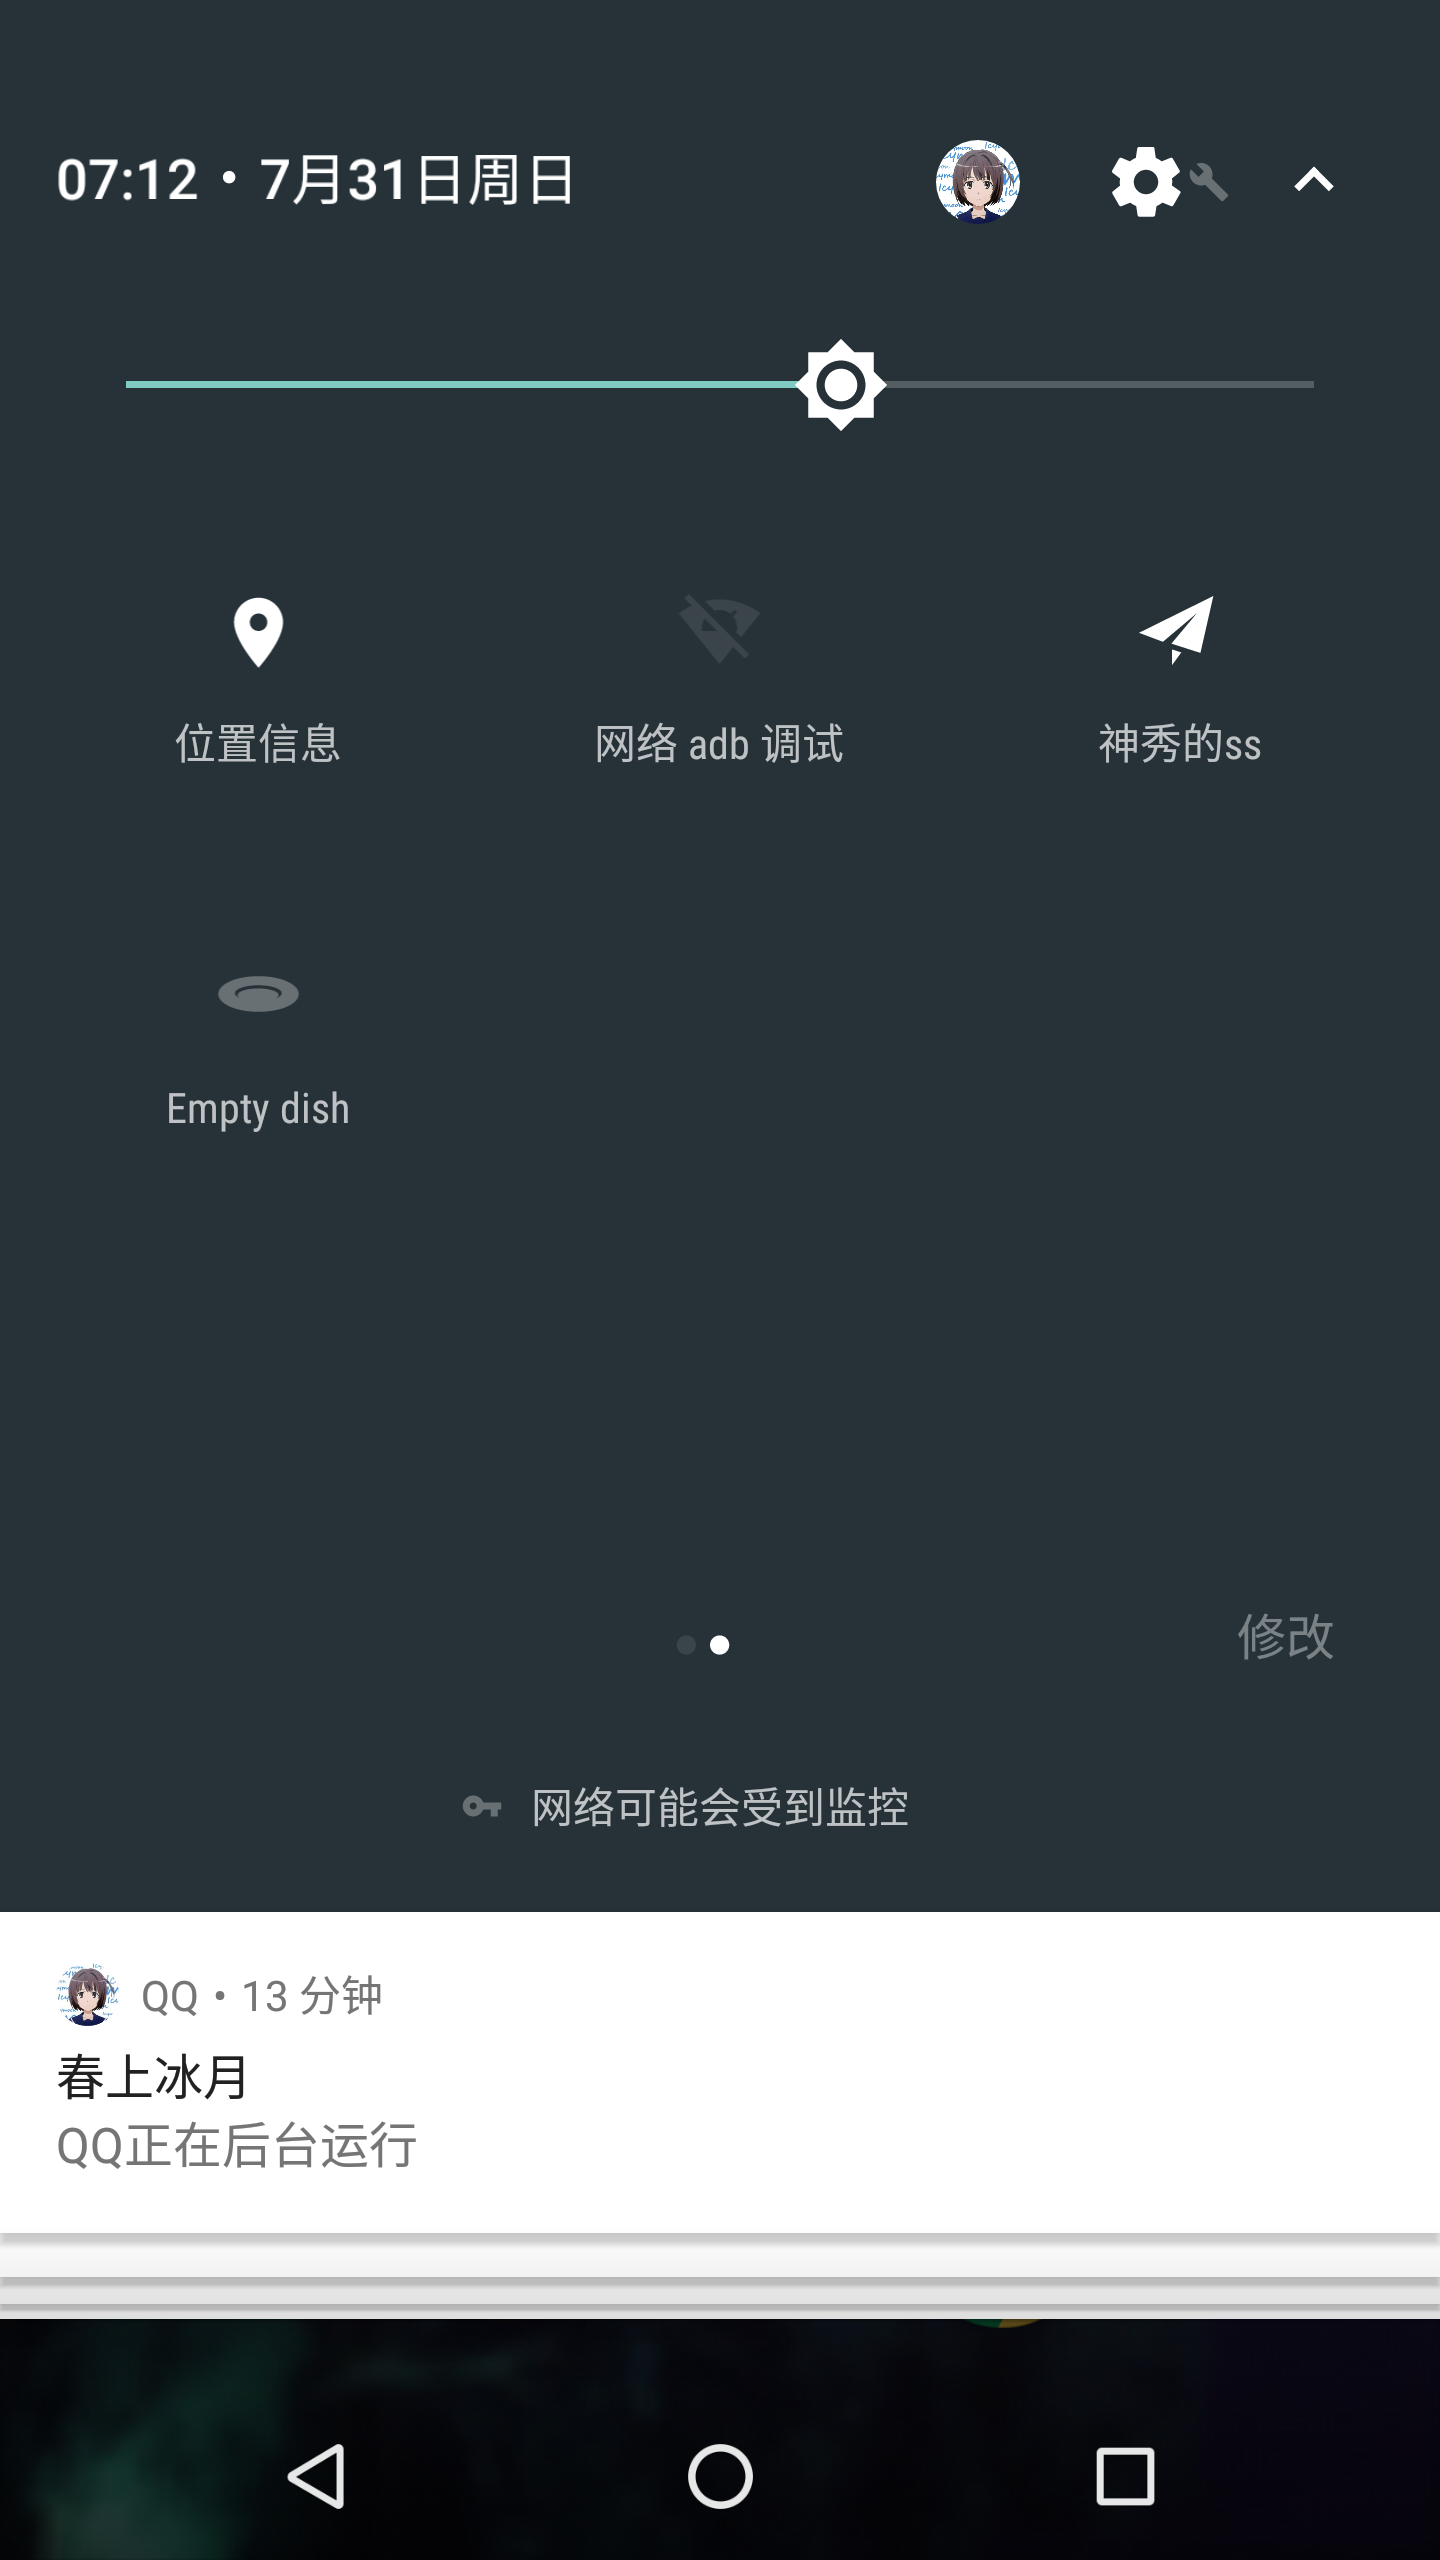
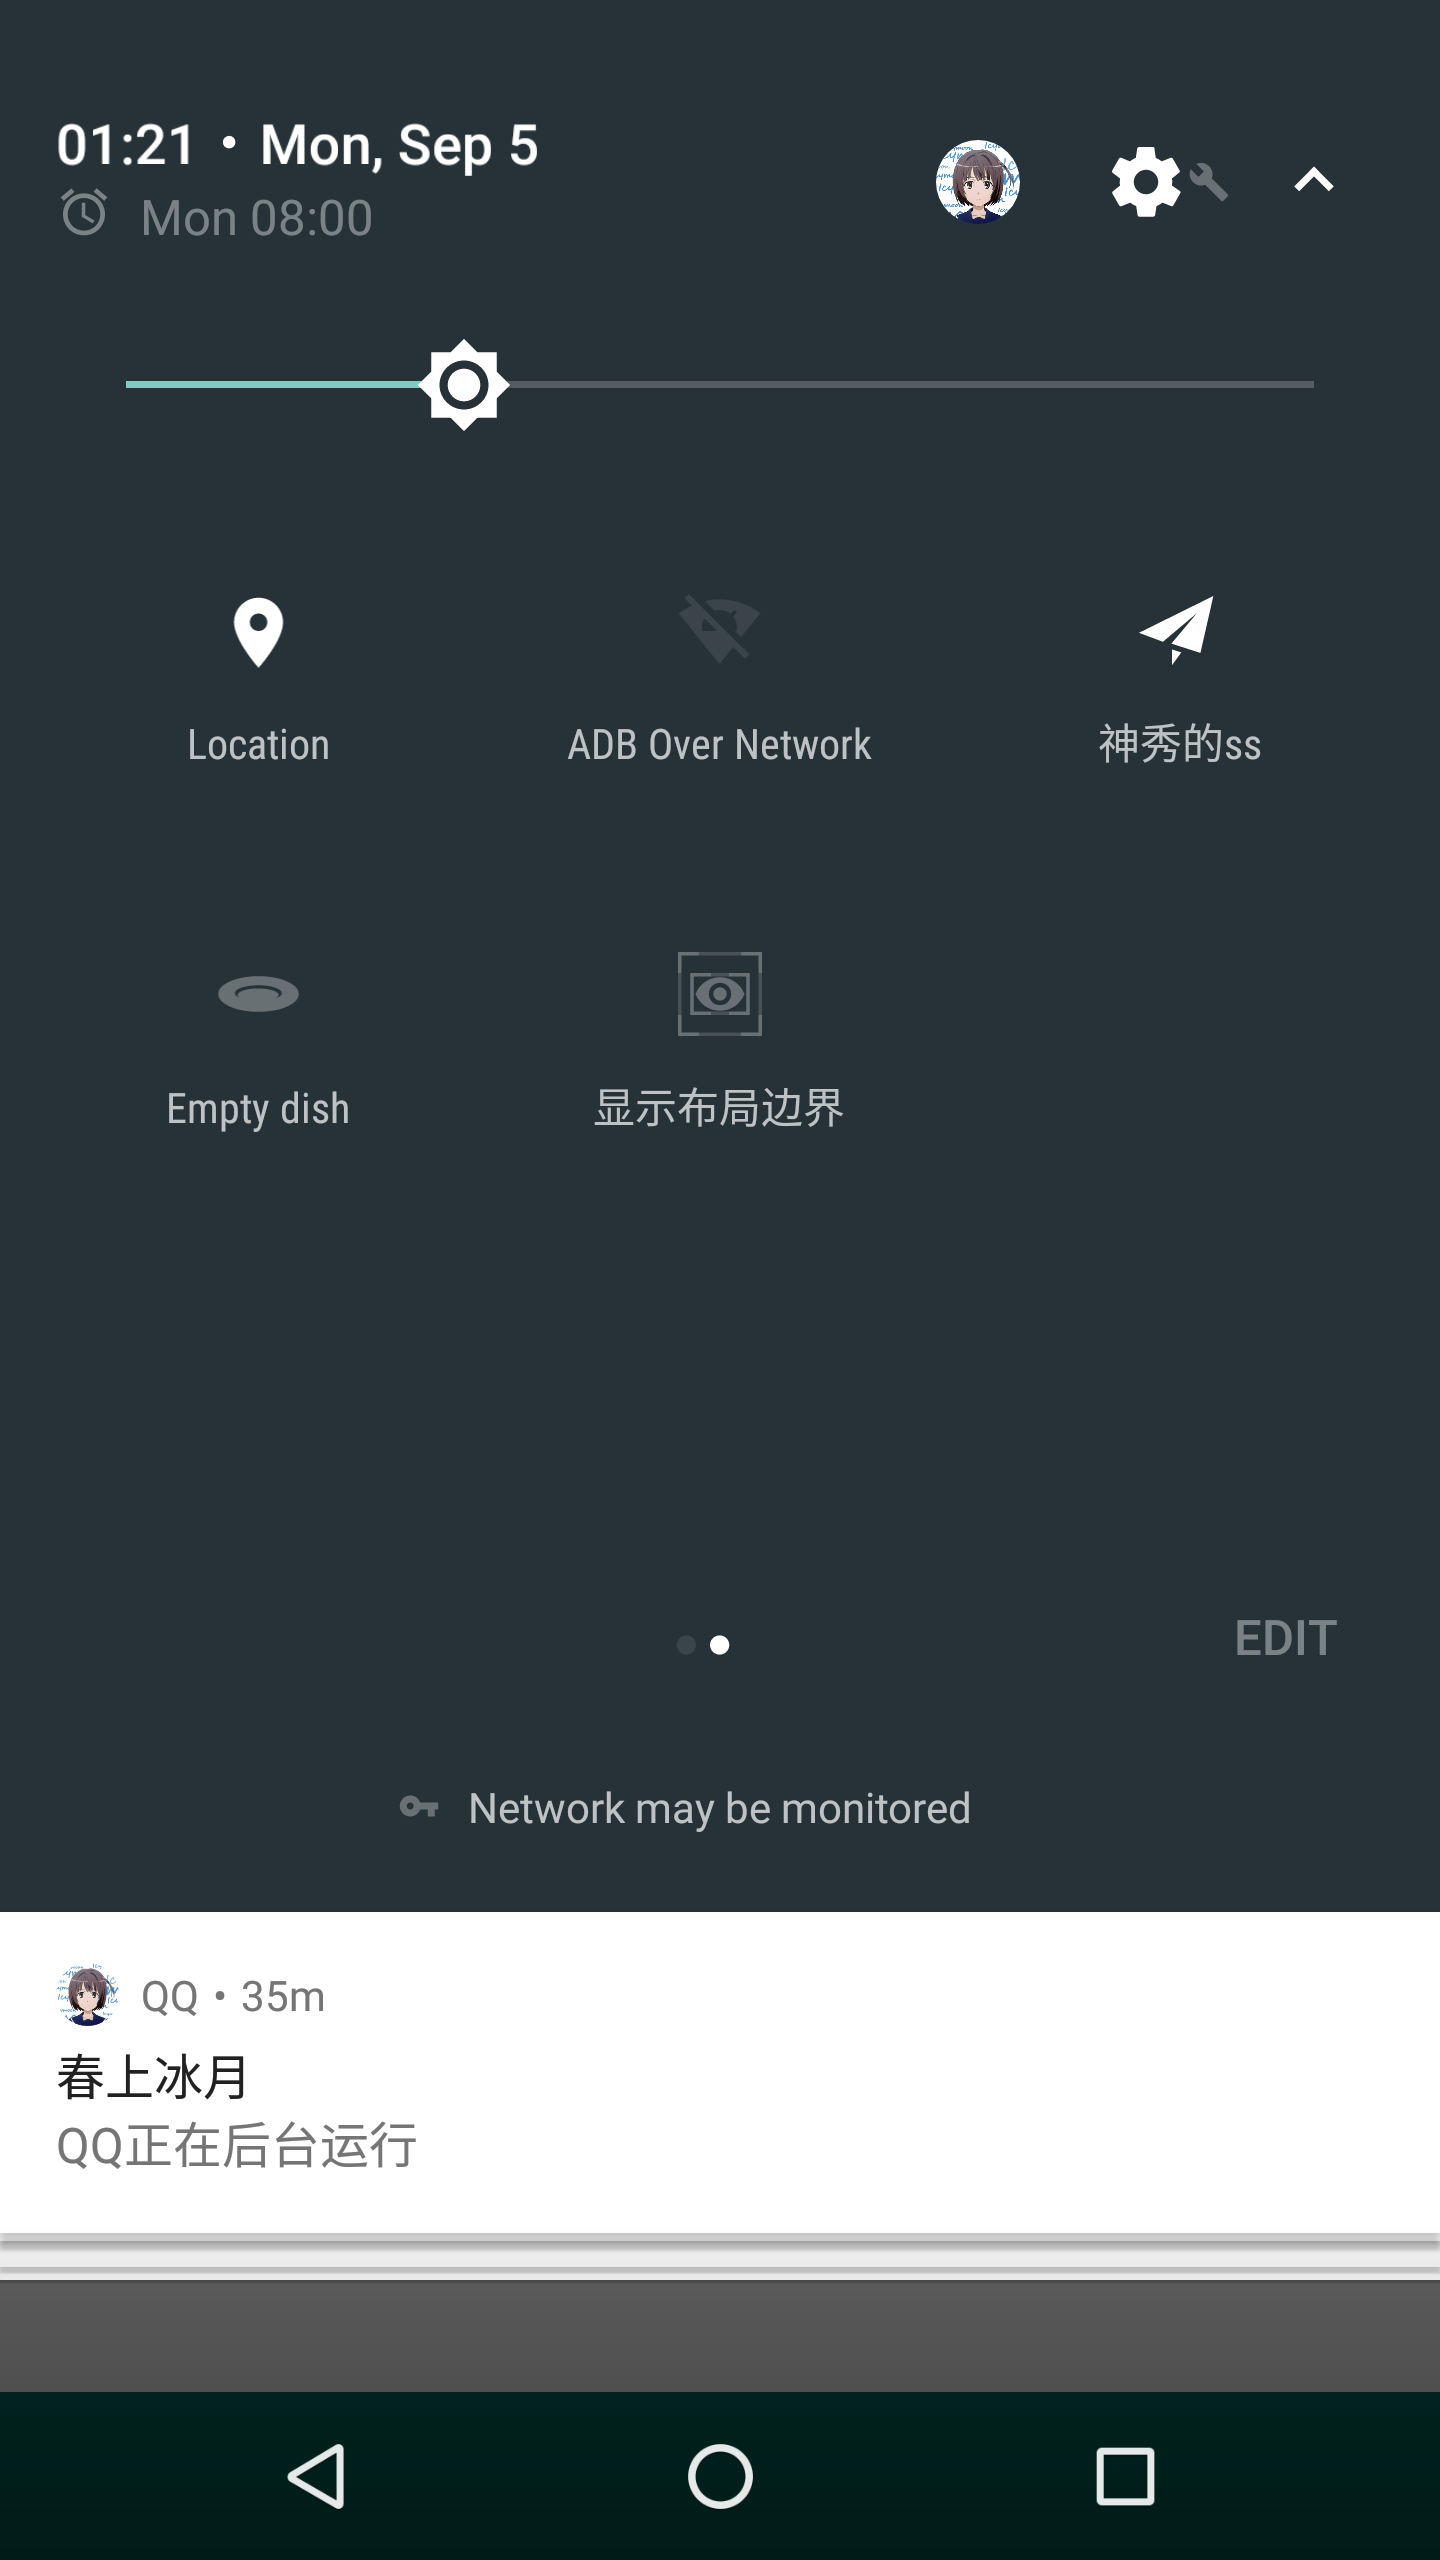
English README

diff --git a/README.md b/README.md
@@ -1,32 +1,35 @@
-# WADB - 网络 adb 调试开关
+# WADB - a simple switch for ADB over network
+[简体中文](README-zh_rCN.md) | [English](README.md)
 
-## 功能
-纯粹的对两条命令的封装，开启和关闭网络 adb 调试（修改端口），**需要 root 权限**
+## Function
+switch the state of ADB over network by the following command，**Need root !!!**
 ```shell
-// 开启
+// Start ADB over network
 setprop service.adb.tcp.port 5555
 stop adbd
 start adbd
 
-// 关闭
+// Stop ADB over network
 setprop service.adb.tcp.port -1
 stop adbd
 start adbd
 
 ```
 
-主要还是想试一下 Android N 上新加的 [Tile API](https://developer.android.com/preview/api-overview.html#tile_api) ，所以这些效果需要 Android N 才能看到。
+Support the new [Tile API](https://developer.android.com/preview/api-overview.html#tile_api) which add in Android N, so you need a Android N device to use the tile. But other functions also work well in Android 4.0.
+
+## Screenshot
 
 <img src="readme.res/01.png" width="30%" heigth="30%">
 <img src="readme.res/02.png" width="30%" heigth="30%">
 <img src="readme.res/03.png" width="30%" heigth="30%">
 <img src="readme.res/04.png" width="30%" heigth="30%">
 
-## 下载
-在 Play 商店支持我们：    
-<a href='https://play.google.com/store/apps/details?id=moe.haruue.wadb&utm_source=global_co&utm_medium=prtnr&utm_content=Mar2515&utm_campaign=PartBadge&pcampaignid=MKT-Other-global-all-co-prtnr-py-PartBadge-Mar2515-1'><img alt='即刻获取 Google Play' src='https://play.google.com/intl/en_us/badges/images/generic/zh-cn_badge_web_generic.png' width="250"/></a>
+## Download
+Support us in Play Store：    
+<a href='https://play.google.com/store/apps/details?id=moe.haruue.wadb&utm_source=global_co&utm_medium=prtnr&utm_content=Mar2515&utm_campaign=PartBadge&pcampaignid=MKT-Other-global-all-co-prtnr-py-PartBadge-Mar2515-1'><img alt='Get it on Google Play' src='https://play.google.com/intl/en_us/badges/images/generic/en_badge_web_generic.png' width="250"/></a>
 
-或者 [戳这里直接下载 APK](app/app-release.apk?raw=true)    
+... or directly download the APK file by click [here](app/app-release.apk?raw=true).    
 
 ## License
 Apache License 2.0

diff --git a/README-zh_rCN.md b/README-zh_rCN.md
@@ -1,0 +1,50 @@
+# WADB - 网络 adb 调试开关
+[简体中文](README-zh_rCN.md) | [English](README.md)
+
+## 功能
+纯粹的对两条命令的封装，开启和关闭网络 adb 调试（修改端口），**需要 root 权限**
+```shell
+// 开启
+setprop service.adb.tcp.port 5555
+stop adbd
+start adbd
+
+// 关闭
+setprop service.adb.tcp.port -1
+stop adbd
+start adbd
+
+```
+
+主要还是想试一下 Android N 上新加的 [Tile API](https://developer.android.com/preview/api-overview.html#tile_api) ，所以这些效果需要 Android N 才能看到。
+
+<img src="readme.res/zh_rCN/01.png" width="30%" heigth="30%">
+<img src="readme.res/zh_rCN/02.png" width="30%" heigth="30%">
+<img src="readme.res/zh_rCN/03.png" width="30%" heigth="30%">
+<img src="readme.res/zh_rCN/04.png" width="30%" heigth="30%">
+
+## 下载
+在 Play 商店支持我们：    
+<a href='https://play.google.com/store/apps/details?id=moe.haruue.wadb&utm_source=global_co&utm_medium=prtnr&utm_content=Mar2515&utm_campaign=PartBadge&pcampaignid=MKT-Other-global-all-co-prtnr-py-PartBadge-Mar2515-1'><img alt='即刻获取 Google Play' src='https://play.google.com/intl/en_us/badges/images/generic/zh-cn_badge_web_generic.png' width="250"/></a>
+
+或者 [戳这里直接下载 APK](app/app-release.apk?raw=true)    
+
+## License
+Apache License 2.0
+
+```License
+Copyright 2016 Haruue Icymoon
+
+Licensed under the Apache License, Version 2.0 (the "License");
+you may not use this file except in compliance with the License.
+You may obtain a copy of the License at
+
+    http://www.apache.org/licenses/LICENSE-2.0
+
+Unless required by applicable law or agreed to in writing, software
+distributed under the License is distributed on an "AS IS" BASIS,
+WITHOUT WARRANTIES OR CONDITIONS OF ANY KIND, either express or implied.
+See the License for the specific language governing permissions and
+limitations under the License.
+
+```
